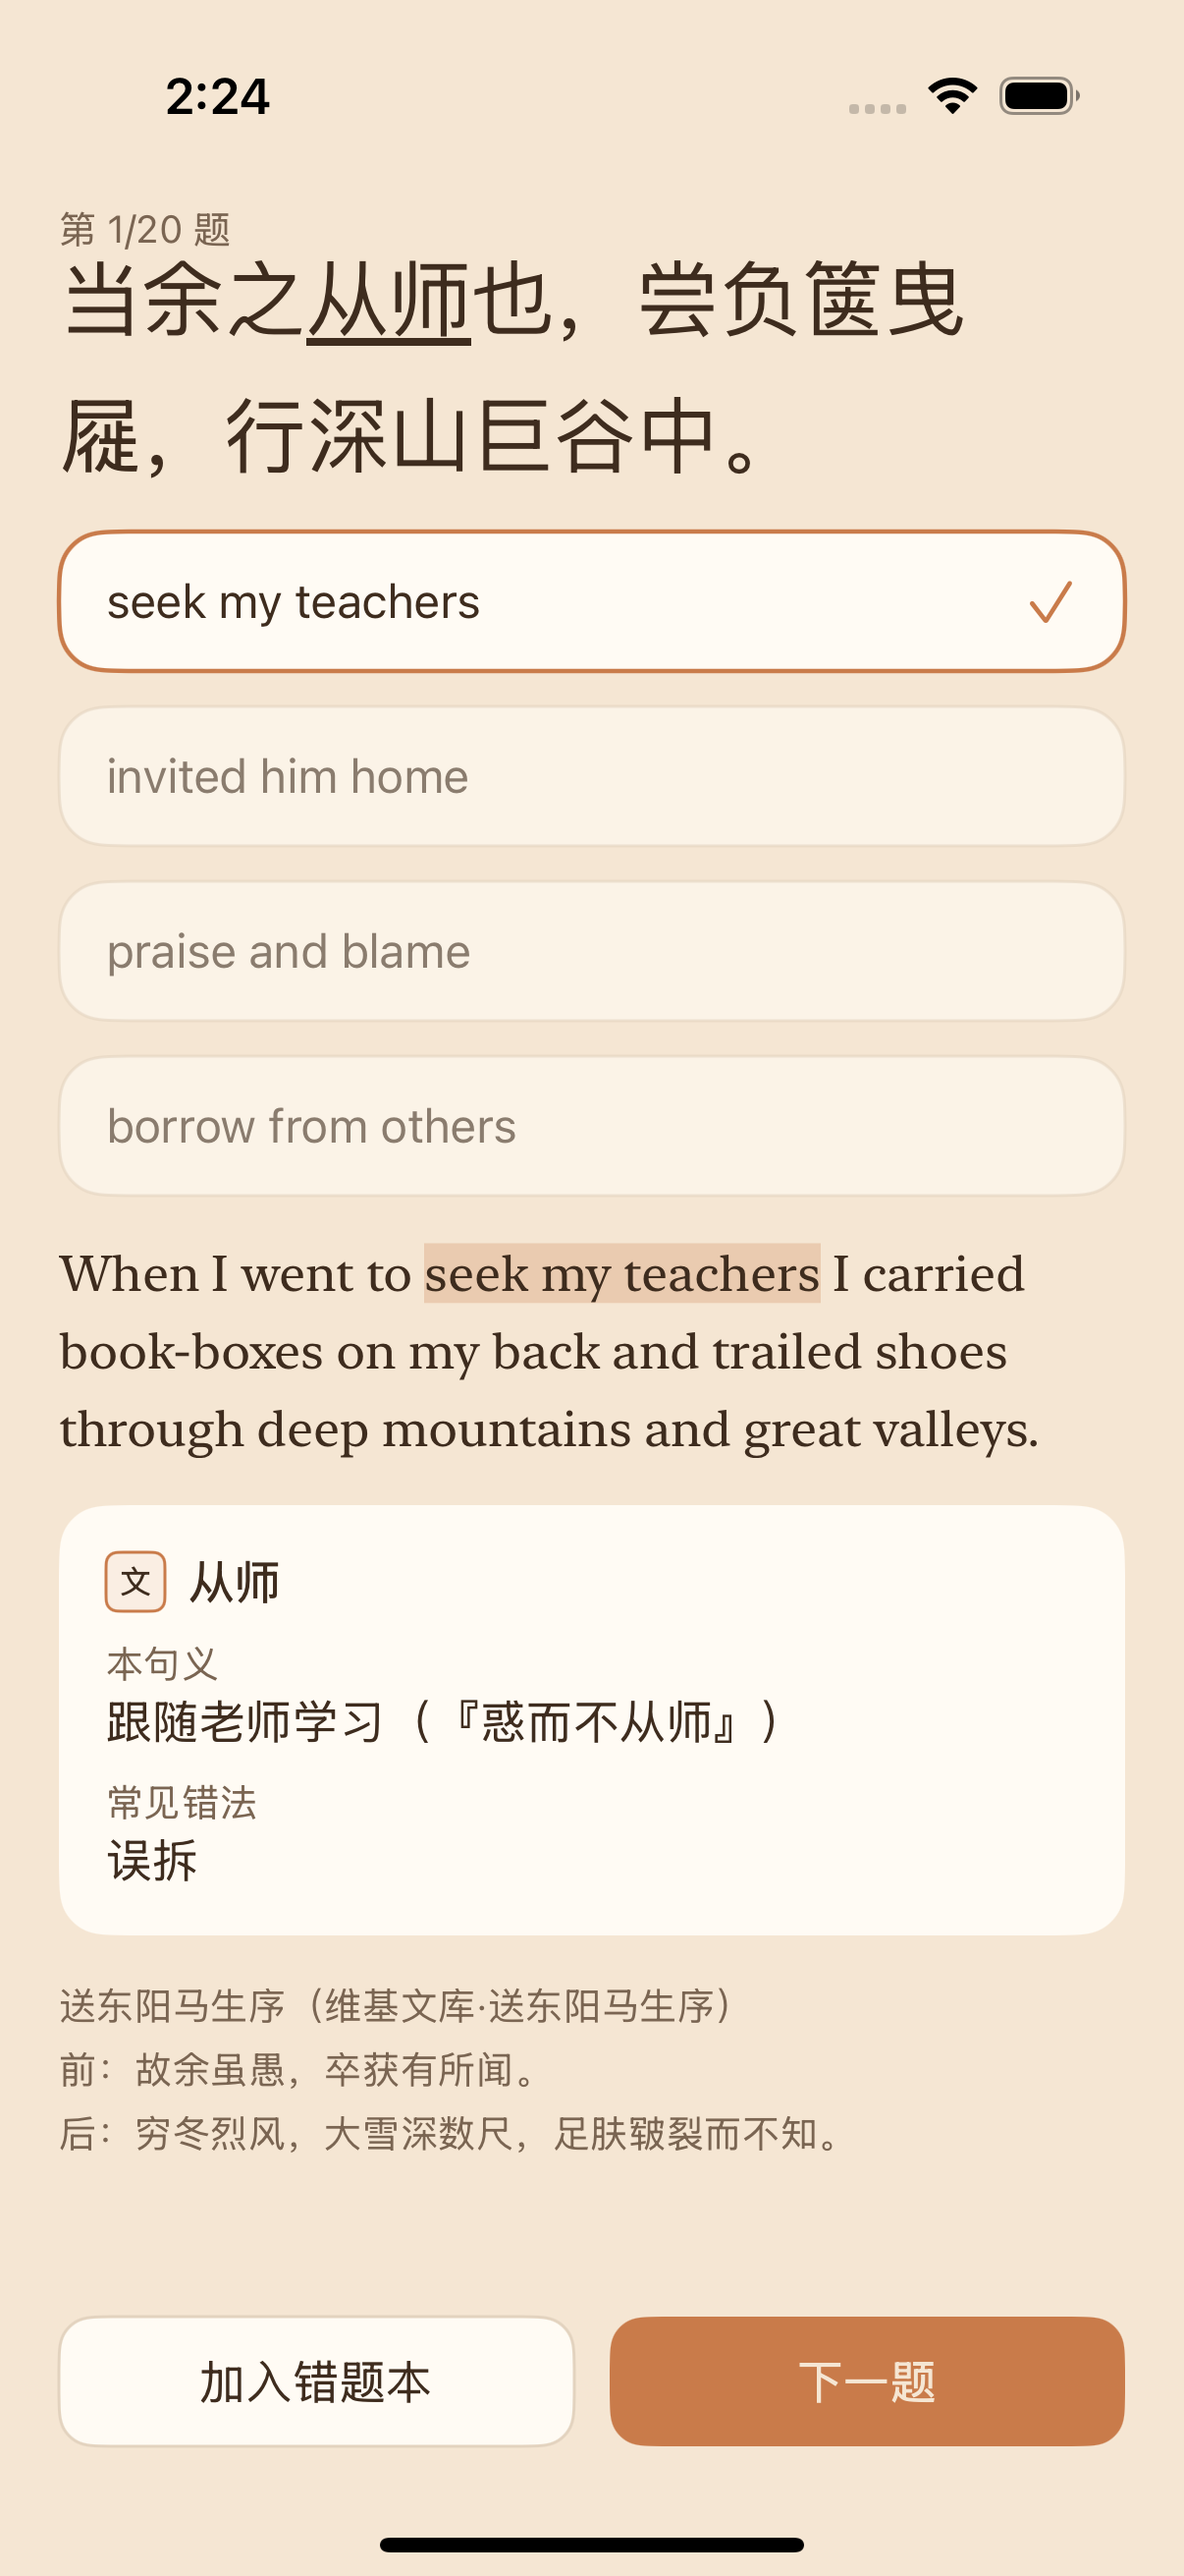
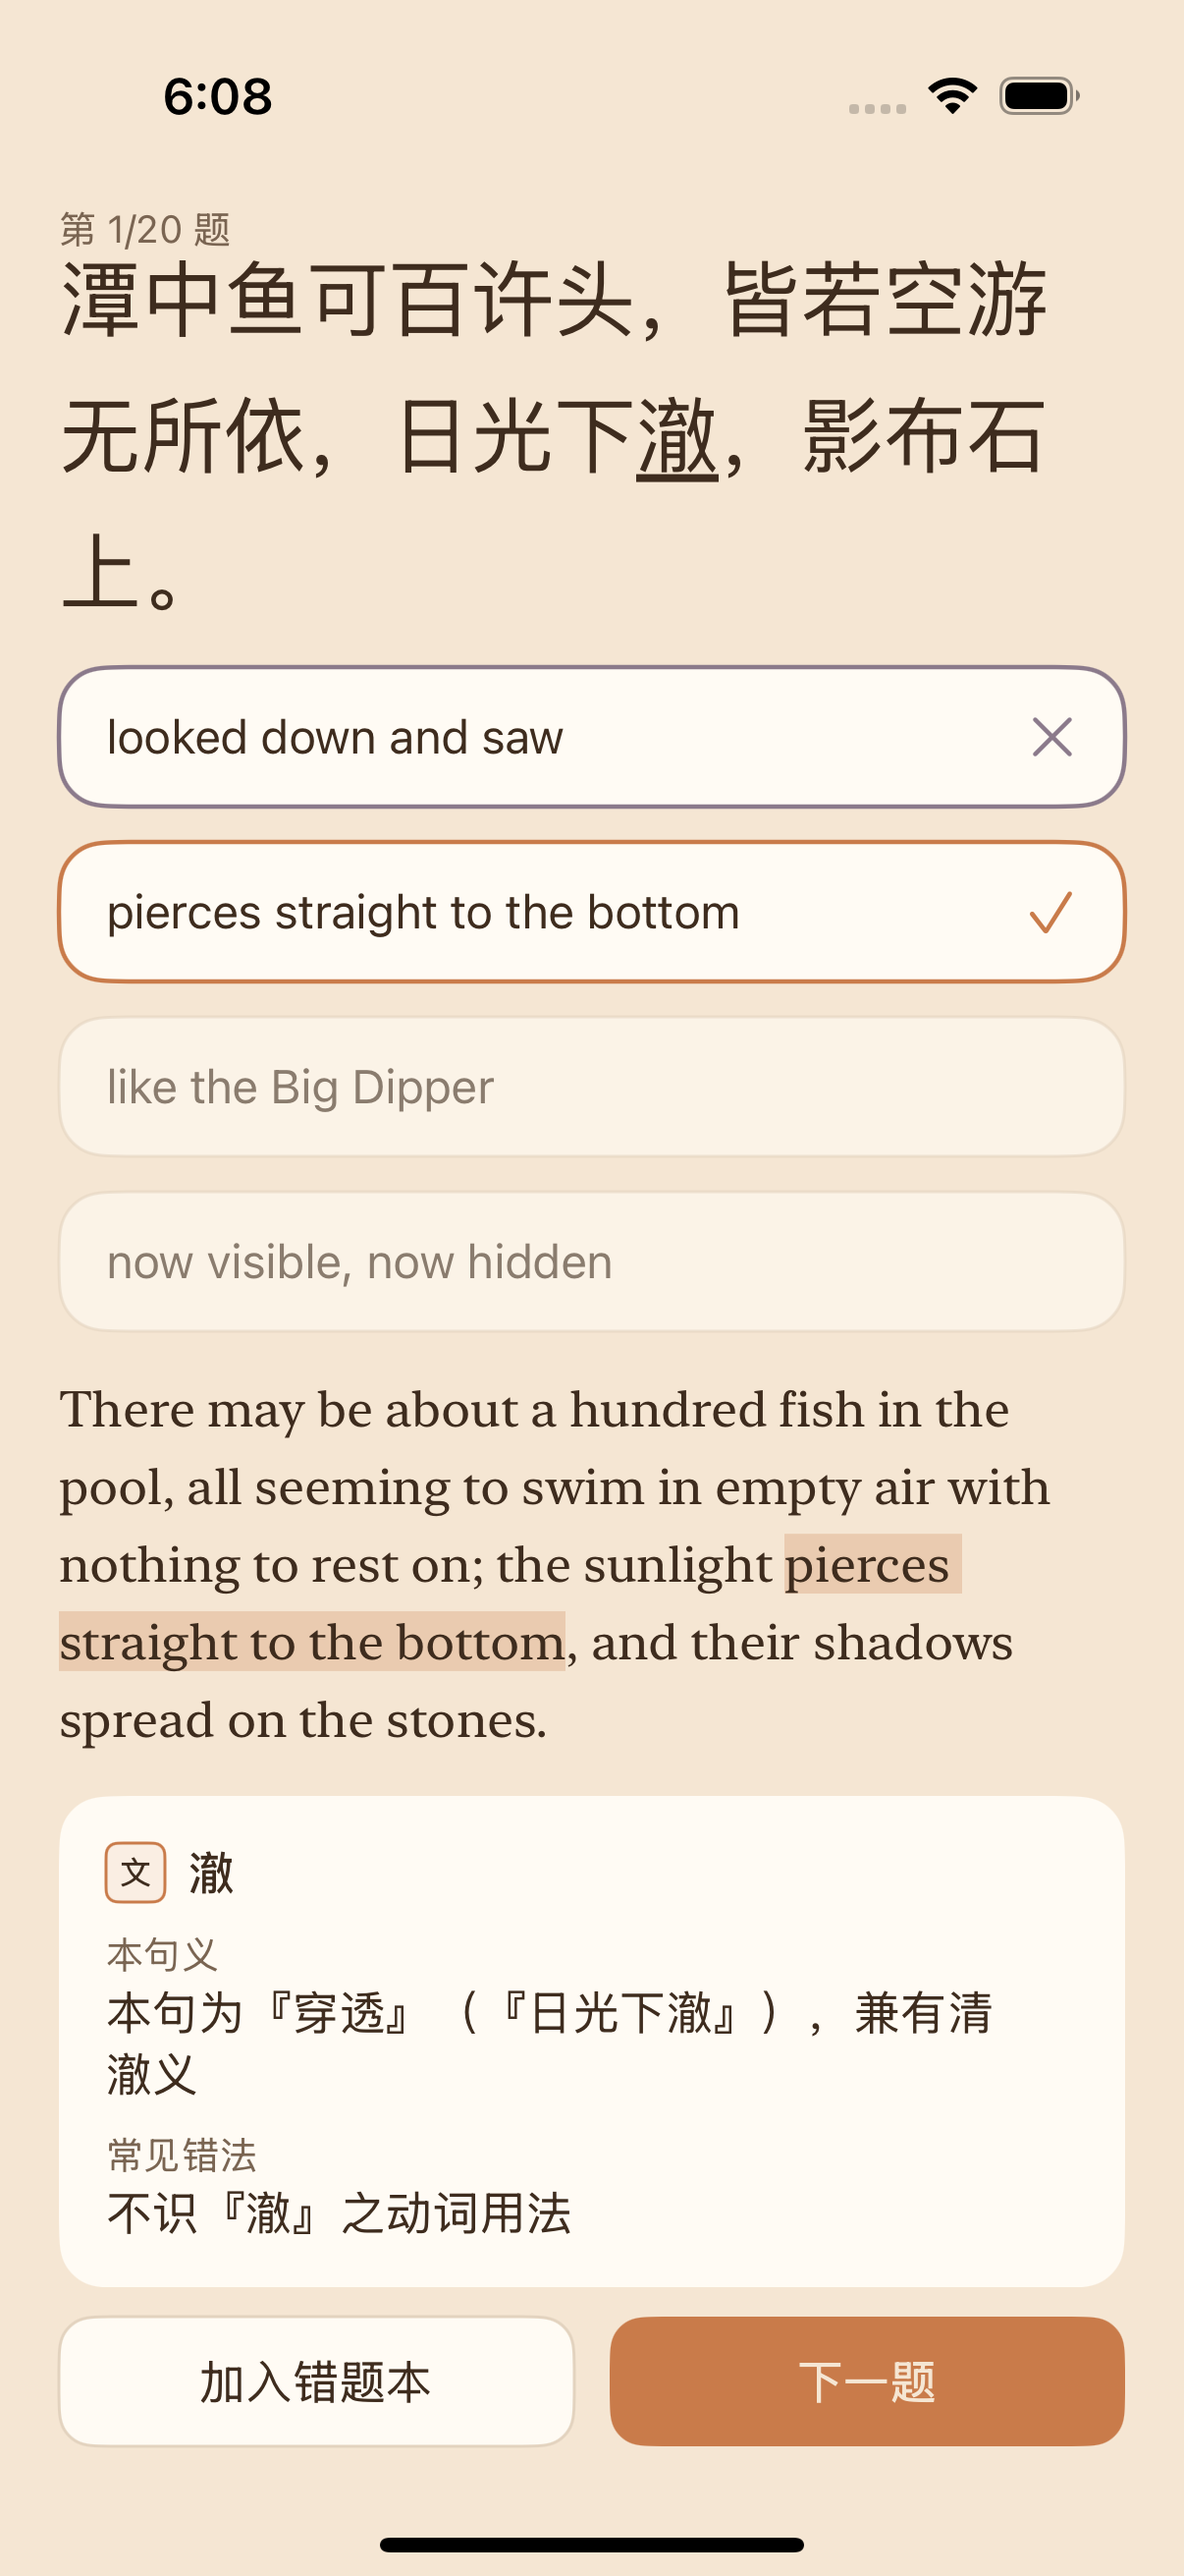
chore(screenshots): 归档 U 系列验收实拍，四页截图更新到 v6 题库
从 CI 产物里取出 18 张测试现场截图（manifest.json 还原可读名）：
- ios/screenshots/u-acceptance/ 新增 13 张，每个 U 用例对应 1–2 张
- ios/screenshots/ 覆盖 01～04 与 03b（原图是 v4 题库，已过期）

已人工核对关键画面，不是「测试绿了就算」：
- U4：先天下之忧 / 后天下之乐 两处「天下」都带下划线
- U5：译文里 the world 出现两次，高亮底色只在第一处
- U1：第 4/20 题时进度条 20 段中前 3 段为橙色
- U7：zzz qqq 带删除线，正确答案整句高亮+下划线，未自评时「完成默写」置灰

diff --git a/ios/README.md b/ios/README.md
@@ -6,12 +6,15 @@
 > **Windows 用户请先读 `REMOTE_BUILD.md`**：本仓库已配置 GitHub Actions 云端 Mac 编译工作流
 > （`.github/workflows/ios-build.yml`），push 即自动出「无 error 编译」结论与产物下载。
 >
-> **当前状态（2026-10-27 实测）**：云端 Mac（macos-15 + Xcode 26.3）编译 **通过，0 error**，
-> 用时 36 秒，产物 `GuwenApp-simulator-build`（0.92 MB）。
+> **当前状态（2026-10-28 实测）**：云端 Mac（macos-15 + Xcode 26.3）编译 **通过，0 error**；
+> UI 测试 **11 个用例全部通过**（2 个四页导航冒烟 + 9 个 U 系列验收），0 失败，耗时约 7.7 分钟。
 > 仓库：https://github.com/llly-121/rem-the-ancient-article
 >
-> 在 Windows 上随时自查编译结果：`bash scripts/ci_status.sh`
-> （绿勾/红叉 + 失败时的 error 行一屏出结果，不需要开浏览器）。
+> 在 Windows 上随时自查结果：`bash scripts/ci_status.sh`
+> （绿勾/红叉 + 失败时的 error 行一屏出结果，不需要开浏览器，也不需要 Mac）。
+>
+> **v7 起不需要 Mac 也能完成全部验收**：ui_spec 的 U1–U13 已从「人眼判断」改为可重复执行的断言，
+> 全部由云端 CI 出结论——详见下文第六节。
 
 
 ## 一、环境要求
